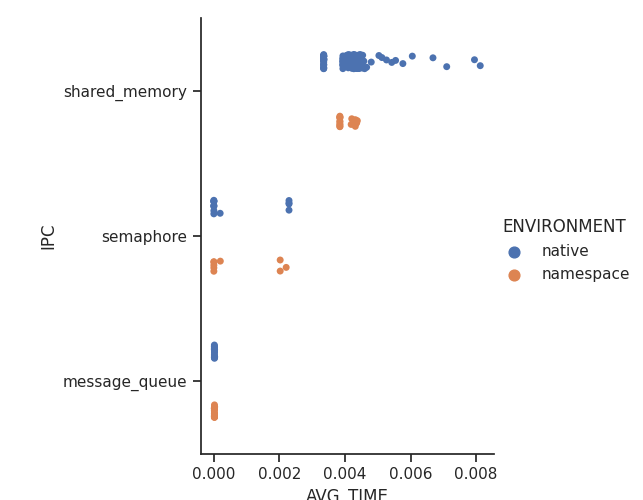
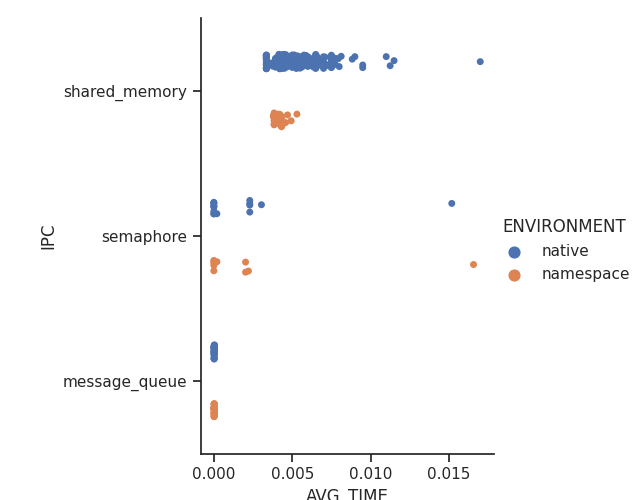
working updating images

diff --git a/luke_gui.py b/luke_gui.py
@@ -58,6 +58,7 @@ def create_graph():
     plt.savefig('test_pic.png', dpi = 100)
     #plt.show()
     plt.savefig('Resources/xd_graph.png')
+    plt.close()
 
     sns.set(style = "ticks", color_codes = True)
 
@@ -65,6 +66,7 @@ def create_graph():
     plt.savefig('test_pic.png', dpi = 100)
     #plt.show()
     plt.savefig('Resources/bar_graph.png')
+    plt.close()
 
 def method2():
     distro_label = Label(picker_frame, text="Namespace\t\tNative", bg=p_col).pack()
@@ -95,22 +97,33 @@ img_size = 350
 img2 = ImageTk.PhotoImage(Image.open('Resources/bar_graph.png').resize((img_size, img_size), Image.ANTIALIAS))
 img3 = ImageTk.PhotoImage(Image.open('Resources/bell_curve.png').resize((img_size, img_size), Image.ANTIALIAS))
 img4 = ImageTk.PhotoImage(Image.open('Resources/xd_graph.png').resize((img_size, img_size), Image.ANTIALIAS))
+# img2.resize((img_size, img_size), Image.ANTIALIAS)
+# img3.resize((img_size, img_size), Image.ANTIALIAS)
+# img4.resize((img_size, img_size), Image.ANTIALIAS)
 am = 10
-panel_bar = Label(matplot_frame, image = img2).grid(row= 0, column = 0, padx=am, pady = 50)
-panel_hist = Label(matplot_frame, image = img3).grid(row= 0, column = 1, padx=am, pady = 50)
-panel_xd = Label(matplot_frame, image = img4).grid(row= 0, column = 2, padx=am, pady = 50)
+panel_bar = Label(matplot_frame, image = img2)
+panel_hist = Label(matplot_frame, image = img3)
+panel_xd = Label(matplot_frame, image = img4)
+panel_xd.grid(row= 0, column = 2, padx=am, pady = 50)
+panel_hist.grid(row= 0, column = 0, padx=am, pady = am)
+panel_bar.grid(row= 0, column = 1, padx=am, pady = am)
 iteration_argument = StringVar()
 loop_argument = StringVar()
 def draw_updated():
     img2 = ImageTk.PhotoImage(Image.open('Resources/bar_graph.png').resize((img_size, img_size), Image.ANTIALIAS))
     img3 = ImageTk.PhotoImage(Image.open('Resources/bell_curve.png').resize((img_size, img_size), Image.ANTIALIAS))
     img4 = ImageTk.PhotoImage(Image.open('Resources/xd_graph.png').resize((img_size, img_size), Image.ANTIALIAS))
-    panel_xd = Label(matplot_frame, image = img4).grid(row= 0, column = 2, padx=am, pady = 50).image = img2
-    panel_hist = Label(matplot_frame, image = img2).grid(row= 0, column = 0, padx=am, pady = am).image = img2
-    panel_bar = Label(matplot_frame, image = img3).grid(row= 0, column = 1, padx=am, pady = am).image = img2
-    panel_xd.image =img4
-    panel_hist.image=img2
-    panel_bar.image= img3
+
+
+    panel_xd = Label(matplot_frame, image = img4)
+    panel_hist = Label(matplot_frame, image = img3)
+    panel_bar = Label(matplot_frame, image = img2)
+    panel_xd.grid(row= 0, column = 2, padx=am, pady = 50)
+    panel_hist.grid(row= 0, column = 0, padx=am, pady = am)
+    panel_bar.grid(row= 0, column = 1, padx=am, pady = am)
+    panel_xd.image = img4
+    panel_hist.image = img3
+    panel_bar.image = img2
     # if(panel_xd != None):
     #     panel_xd.image =img4
     # if(panel_hist != None):
@@ -237,7 +250,7 @@ def update_graph(command):
     create_graph()
     #sub_p('sudo python3 create_graph.py')   
     #sub_p('sudo python3 bell_curve.py')   
-    #draw_updated()
+    draw_updated()
     canvas.update()
 def execute():
     iteration_count = int(iteration_argument.get())

diff --git a/create_graph.py b/create_graph.py
@@ -45,12 +45,12 @@ while count < len(data):
     count += 1
 
 print(my_map['native']['posix']['shared_memory'] / float(count))
-avg_native_posix_semaphore = my_map['native']['posix']['semaphore'] / float(count) * float(100000)
-avg_native_posix_mq = my_map['native']['posix']['message_queue'] / float(count) * float(100000)
-avg_native_posix_sm = my_map['native']['posix']['shared_memory'] / float(count) * float(1000)
-avg_native_sysv_semaphore = my_map['native']['sysv']['semaphore'] / float(count) * float(100000)
-avg_native_sysv_mq = my_map['native']['sysv']['message_queue'] / float(count) * float(100000)
-avg_native_sysv_sm = my_map['native']['sysv']['shared_memory'] / float(count) * float(100000) 
+avg_native_posix_semaphore = my_map['native']['posix']['semaphore'] / float(count)
+avg_native_posix_mq = my_map['native']['posix']['message_queue'] / float(count)
+avg_native_posix_sm = my_map['native']['posix']['shared_memory'] / float(count)
+avg_native_sysv_semaphore = my_map['native']['sysv']['semaphore'] / float(count)
+avg_native_sysv_mq = my_map['native']['sysv']['message_queue'] / float(count)
+avg_native_sysv_sm = my_map['native']['sysv']['shared_memory'] / float(count)
 print(avg_native_posix_semaphore)
 print(avg_native_posix_mq)
 print(avg_native_posix_sm)
@@ -64,12 +64,20 @@ avg_namespace_posix_sm = my_map['namespace']['posix']['shared_memory'] / float(c
 avg_namespace_sysv_semaphore = my_map['namespace']['sysv']['semaphore'] / float(count)
 avg_namespace_sysv_mq = my_map['namespace']['sysv']['message_queue'] / float(count)
 avg_namespace_sysv_sm = my_map['namespace']['sysv']['shared_memory'] / float(count)
+# data =  [
+#             ['Namespace POSIX', 'Namespace SysV', 'Native POSIX', 'Native SysV'],
+#             [ 'Semaphore',  avg_namespace_posix_semaphore, avg_namespace_sysv_semaphore,   avg_native_posix_semaphore,  avg_native_sysv_semaphore],
+#             ['Message Queue',  avg_namespace_posix_mq, avg_namespace_sysv_mq,   avg_native_posix_mq, avg_native_sysv_mq ],
+#             ['Shared Memory',  avg_namespace_posix_sm, avg_namespace_sysv_sm,   avg_native_posix_sm,  avg_native_sysv_sm],
+#         ]
+
+
 data =  [
-            ['Namespace POSIX', 'Namespace SysV', 'Native POSIX', 'Native SysV'],
-            [ 'Semaphore',  avg_namespace_posix_semaphore, avg_namespace_sysv_semaphore,   avg_native_posix_semaphore,  avg_native_sysv_semaphore],
-            ['Message Queue',  avg_namespace_posix_mq, avg_namespace_sysv_mq,   avg_native_posix_mq, avg_native_sysv_mq ],
-            ['Shared Memory',  avg_namespace_posix_sm, avg_namespace_sysv_sm,   avg_native_posix_sm,  avg_native_sysv_sm],
-        ]# Pop the headers from the data array
+             ['Namespace POSIX', 'Namespace SysV', 'Native POSIX', 'Native SysV'],
+             [ 'Semaphore',  1, 2,   3,  4],
+             ['Message Queue',  5, 6,   7, 8 ],
+             ['Shared Memory',  9, 10,   11,  12],
+         ]
 column_headers = data.pop(0)
 row_headers = [x.pop(0) for x in data]# Table data needs to be non-numeric text. Format the data
 # while I'm at it.

diff --git a/UserCode/Vincent/src/sysv_shmem/shared_mem_driver.c b/UserCode/Vincent/src/sysv_shmem/shared_mem_driver.c
@@ -9,7 +9,11 @@
 
 int SYS_V_shared_memory_execute(int iteration_count, int native){  
 
-
+    elapsedTime = 0.0f;
+    averageClient = 0.0f;
+    averageServer = 0.0f;
+    msgPerSecondSYSV= 0.0f;
+    counterSYSV = 0;
     
     gettimeofday(&start,NULL); //starts timer
     while(counterSYSV < iteration_count){
